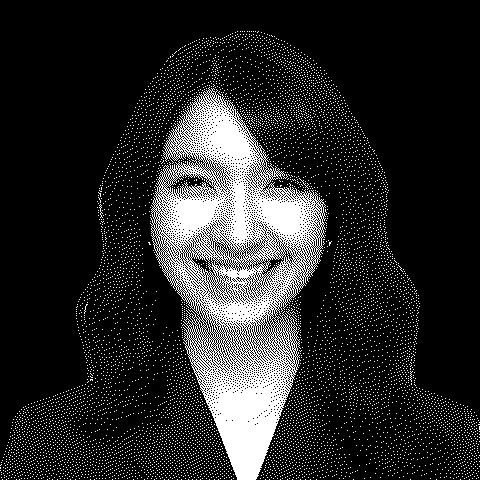
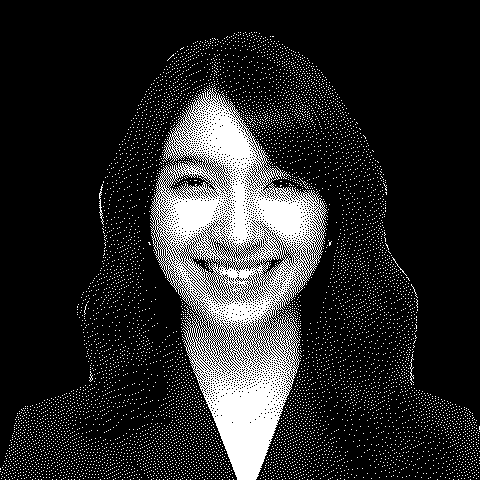
Same grain in both themes for a smooth photo crossfade
- Build the dark-mode headshot from the light-mode dither pixels: only the detected backdrop is blacked out, every dot on the face, hair and blazer is identical (verified: only white->black backdrop pixels differ)
- Theme toggle now only changes colour, the texture no longer jumps
- Version the headshot image URLs so cached old images are not reused; bump asset version to 202611066
- Update knockout.mjs and the recipe in the dvphnc-design skill

diff --git a/index.html b/index.html
@@ -19,7 +19,7 @@
   <link rel="preconnect" href="https://fonts.gstatic.com" crossorigin/>
   <link rel="preconnect" href="https://cdn.jsdelivr.net" crossorigin/>
   <link rel="stylesheet" href="https://fonts.googleapis.com/css2?family=Geist:wght@400;500;600;700&family=Geist+Mono:wght@400;500;600&display=swap"/>
-  <link rel="stylesheet" href="assets/css/site.css?v=202611065"/>
+  <link rel="stylesheet" href="assets/css/site.css?v=202611066"/>
 </head>
 <body>
 
@@ -112,8 +112,8 @@
           <div class="portrait enter" style="--d:50ms">
             <!-- Blue duotone: one copy per theme, cross-faded by .dark (filters defined below) -->
             <!-- fine-grain dithered portrait: 1-bit dither made at 2x the display size, scaled smoothly so the grain stays fine -->
-            <picture><source media="(min-width: 720px)" srcset="assets/img/headshot-grain-480.png"/><img class="duo duo-light" src="assets/img/headshot-grain-272.png" alt="Portrait of Joana Daphne Sy" width="240" height="240" fetchpriority="high"/></picture>
-            <picture><source media="(min-width: 720px)" srcset="assets/img/headshot-grain-dark-480.png"/><img class="duo duo-dark" src="assets/img/headshot-grain-dark-272.png" alt="" aria-hidden="true" width="240" height="240"/></picture>
+            <picture><source media="(min-width: 720px)" srcset="assets/img/headshot-grain-480.png?v=202611066"/><img class="duo duo-light" src="assets/img/headshot-grain-272.png?v=202611066" alt="Portrait of Joana Daphne Sy" width="240" height="240" fetchpriority="high"/></picture>
+            <picture><source media="(min-width: 720px)" srcset="assets/img/headshot-grain-dark-480.png?v=202611066"/><img class="duo duo-dark" src="assets/img/headshot-grain-dark-272.png?v=202611066" alt="" aria-hidden="true" width="240" height="240"/></picture>
             <svg width="0" height="0" style="position:absolute" aria-hidden="true" focusable="false">
               <!-- light theme: shadows #002a78 → highlights #e8f1ff -->
               <filter id="duo-light" color-interpolation-filters="sRGB">
@@ -427,10 +427,10 @@
     </div>
   </div>
 
-  <script src="assets/js/boot.js?v=202611065"></script>
-  <script src="assets/js/theme.js?v=202611065"></script>
-  <script src="assets/js/main.js?v=202611065"></script>
+  <script src="assets/js/boot.js?v=202611066"></script>
+  <script src="assets/js/theme.js?v=202611066"></script>
+  <script src="assets/js/main.js?v=202611066"></script>
   <script src="https://cdnjs.cloudflare.com/ajax/libs/three.js/r128/three.min.js"></script>
-  <script src="assets/js/globe.js?v=202611065"></script>
+  <script src="assets/js/globe.js?v=202611066"></script>
 </body>
 </html>

diff --git a/notes/CWE-78 - OS Command Injection.html b/notes/CWE-78 - OS Command Injection.html
@@ -13,8 +13,8 @@
   <link rel="preconnect" href="https://fonts.googleapis.com"/>
   <link rel="preconnect" href="https://fonts.gstatic.com" crossorigin/>
   <link rel="stylesheet" href="https://fonts.googleapis.com/css2?family=Geist:wght@400;500;600;700&family=Geist+Mono:wght@400;500;600&family=Source+Serif+4:ital,opsz,wght@0,8..60,400;0,8..60,600;1,8..60,400&display=swap"/>
-  <link rel="stylesheet" href="../assets/css/site.css?v=202611065"/>
-  <link rel="stylesheet" href="../assets/css/note.css?v=202611065"/>
+  <link rel="stylesheet" href="../assets/css/site.css?v=202611066"/>
+  <link rel="stylesheet" href="../assets/css/note.css?v=202611066"/>
 </head>
 <body>
 
@@ -140,7 +140,7 @@ report.txt; rm -rf / --no-preserve-root</code></pre>
     </article>
   </main>
 
-  <script src="../assets/js/theme.js?v=202611065"></script>
-  <script src="../assets/js/note.js?v=202611065"></script>
+  <script src="../assets/js/theme.js?v=202611066"></script>
+  <script src="../assets/js/note.js?v=202611066"></script>
 </body>
 </html>

diff --git a/notes/CWE-89 - SQL Injection.html b/notes/CWE-89 - SQL Injection.html
@@ -13,8 +13,8 @@
   <link rel="preconnect" href="https://fonts.googleapis.com"/>
   <link rel="preconnect" href="https://fonts.gstatic.com" crossorigin/>
   <link rel="stylesheet" href="https://fonts.googleapis.com/css2?family=Geist:wght@400;500;600;700&family=Geist+Mono:wght@400;500;600&family=Source+Serif+4:ital,opsz,wght@0,8..60,400;0,8..60,600;1,8..60,400&display=swap"/>
-  <link rel="stylesheet" href="../assets/css/site.css?v=202611065"/>
-  <link rel="stylesheet" href="../assets/css/note.css?v=202611065"/>
+  <link rel="stylesheet" href="../assets/css/site.css?v=202611066"/>
+  <link rel="stylesheet" href="../assets/css/note.css?v=202611066"/>
 </head>
 <body>
 
@@ -159,7 +159,7 @@ cursor.execute(query)</code></pre>
     </article>
   </main>
 
-  <script src="../assets/js/theme.js?v=202611065"></script>
-  <script src="../assets/js/note.js?v=202611065"></script>
+  <script src="../assets/js/theme.js?v=202611066"></script>
+  <script src="../assets/js/note.js?v=202611066"></script>
 </body>
 </html>

diff --git a/notes/Burp Suite Introduction.html b/notes/Burp Suite Introduction.html
@@ -13,8 +13,8 @@
   <link rel="preconnect" href="https://fonts.googleapis.com"/>
   <link rel="preconnect" href="https://fonts.gstatic.com" crossorigin/>
   <link rel="stylesheet" href="https://fonts.googleapis.com/css2?family=Geist:wght@400;500;600;700&family=Geist+Mono:wght@400;500;600&family=Source+Serif+4:ital,opsz,wght@0,8..60,400;0,8..60,600;1,8..60,400&display=swap"/>
-  <link rel="stylesheet" href="../assets/css/site.css?v=202611065"/>
-  <link rel="stylesheet" href="../assets/css/note.css?v=202611065"/>
+  <link rel="stylesheet" href="../assets/css/site.css?v=202611066"/>
+  <link rel="stylesheet" href="../assets/css/note.css?v=202611066"/>
 </head>
 <body>
 
@@ -147,7 +147,7 @@
     </article>
   </main>
 
-  <script src="../assets/js/theme.js?v=202611065"></script>
-  <script src="../assets/js/note.js?v=202611065"></script>
+  <script src="../assets/js/theme.js?v=202611066"></script>
+  <script src="../assets/js/note.js?v=202611066"></script>
 </body>
 </html>

diff --git a/notes/CWE-35 - Path Traversal.html b/notes/CWE-35 - Path Traversal.html
@@ -13,8 +13,8 @@
   <link rel="preconnect" href="https://fonts.googleapis.com"/>
   <link rel="preconnect" href="https://fonts.gstatic.com" crossorigin/>
   <link rel="stylesheet" href="https://fonts.googleapis.com/css2?family=Geist:wght@400;500;600;700&family=Geist+Mono:wght@400;500;600&family=Source+Serif+4:ital,opsz,wght@0,8..60,400;0,8..60,600;1,8..60,400&display=swap"/>
-  <link rel="stylesheet" href="../assets/css/site.css?v=202611065"/>
-  <link rel="stylesheet" href="../assets/css/note.css?v=202611065"/>
+  <link rel="stylesheet" href="../assets/css/site.css?v=202611066"/>
+  <link rel="stylesheet" href="../assets/css/note.css?v=202611066"/>
 </head>
 <body>
 
@@ -172,7 +172,7 @@
     </article>
   </main>
 
-  <script src="../assets/js/theme.js?v=202611065"></script>
-  <script src="../assets/js/note.js?v=202611065"></script>
+  <script src="../assets/js/theme.js?v=202611066"></script>
+  <script src="../assets/js/note.js?v=202611066"></script>
 </body>
 </html>

diff --git a/notes/CWE-79 - Cross-Site Scripting (XSS).html b/notes/CWE-79 - Cross-Site Scripting (XSS).html
@@ -13,8 +13,8 @@
   <link rel="preconnect" href="https://fonts.googleapis.com"/>
   <link rel="preconnect" href="https://fonts.gstatic.com" crossorigin/>
   <link rel="stylesheet" href="https://fonts.googleapis.com/css2?family=Geist:wght@400;500;600;700&family=Geist+Mono:wght@400;500;600&family=Source+Serif+4:ital,opsz,wght@0,8..60,400;0,8..60,600;1,8..60,400&display=swap"/>
-  <link rel="stylesheet" href="../assets/css/site.css?v=202611065"/>
-  <link rel="stylesheet" href="../assets/css/note.css?v=202611065"/>
+  <link rel="stylesheet" href="../assets/css/site.css?v=202611066"/>
+  <link rel="stylesheet" href="../assets/css/note.css?v=202611066"/>
 </head>
 <body>
 
@@ -151,7 +151,7 @@
     </article>
   </main>
 
-  <script src="../assets/js/theme.js?v=202611065"></script>
-  <script src="../assets/js/note.js?v=202611065"></script>
+  <script src="../assets/js/theme.js?v=202611066"></script>
+  <script src="../assets/js/note.js?v=202611066"></script>
 </body>
 </html>

diff --git a/notes/Career Opportunities in IT Security.html b/notes/Career Opportunities in IT Security.html
@@ -13,8 +13,8 @@
   <link rel="preconnect" href="https://fonts.googleapis.com"/>
   <link rel="preconnect" href="https://fonts.gstatic.com" crossorigin/>
   <link rel="stylesheet" href="https://fonts.googleapis.com/css2?family=Geist:wght@400;500;600;700&family=Geist+Mono:wght@400;500;600&family=Source+Serif+4:ital,opsz,wght@0,8..60,400;0,8..60,600;1,8..60,400&display=swap"/>
-  <link rel="stylesheet" href="../assets/css/site.css?v=202611065"/>
-  <link rel="stylesheet" href="../assets/css/note.css?v=202611065"/>
+  <link rel="stylesheet" href="../assets/css/site.css?v=202611066"/>
+  <link rel="stylesheet" href="../assets/css/note.css?v=202611066"/>
 </head>
 <body>
 
@@ -170,7 +170,7 @@
     </article>
   </main>
 
-  <script src="../assets/js/theme.js?v=202611065"></script>
-  <script src="../assets/js/note.js?v=202611065"></script>
+  <script src="../assets/js/theme.js?v=202611066"></script>
+  <script src="../assets/js/note.js?v=202611066"></script>
 </body>
 </html>

diff --git a/notes/Cloud and Virtualization Fundamentals.html b/notes/Cloud and Virtualization Fundamentals.html
@@ -13,8 +13,8 @@
   <link rel="preconnect" href="https://fonts.googleapis.com"/>
   <link rel="preconnect" href="https://fonts.gstatic.com" crossorigin/>
   <link rel="stylesheet" href="https://fonts.googleapis.com/css2?family=Geist:wght@400;500;600;700&family=Geist+Mono:wght@400;500;600&family=Source+Serif+4:ital,opsz,wght@0,8..60,400;0,8..60,600;1,8..60,400&display=swap"/>
-  <link rel="stylesheet" href="../assets/css/site.css?v=202611065"/>
-  <link rel="stylesheet" href="../assets/css/note.css?v=202611065"/>
+  <link rel="stylesheet" href="../assets/css/site.css?v=202611066"/>
+  <link rel="stylesheet" href="../assets/css/note.css?v=202611066"/>
 </head>
 <body>
 
@@ -135,7 +135,7 @@
     </article>
   </main>
 
-  <script src="../assets/js/theme.js?v=202611065"></script>
-  <script src="../assets/js/note.js?v=202611065"></script>
+  <script src="../assets/js/theme.js?v=202611066"></script>
+  <script src="../assets/js/note.js?v=202611066"></script>
 </body>
 </html>

diff --git a/notes/Email Security Fundamentals.html b/notes/Email Security Fundamentals.html
@@ -13,8 +13,8 @@
   <link rel="preconnect" href="https://fonts.googleapis.com"/>
   <link rel="preconnect" href="https://fonts.gstatic.com" crossorigin/>
   <link rel="stylesheet" href="https://fonts.googleapis.com/css2?family=Geist:wght@400;500;600;700&family=Geist+Mono:wght@400;500;600&family=Source+Serif+4:ital,opsz,wght@0,8..60,400;0,8..60,600;1,8..60,400&display=swap"/>
-  <link rel="stylesheet" href="../assets/css/site.css?v=202611065"/>
-  <link rel="stylesheet" href="../assets/css/note.css?v=202611065"/>
+  <link rel="stylesheet" href="../assets/css/site.css?v=202611066"/>
+  <link rel="stylesheet" href="../assets/css/note.css?v=202611066"/>
 </head>
 <body>
 
@@ -137,7 +137,7 @@
     </article>
   </main>
 
-  <script src="../assets/js/theme.js?v=202611065"></script>
-  <script src="../assets/js/note.js?v=202611065"></script>
+  <script src="../assets/js/theme.js?v=202611066"></script>
+  <script src="../assets/js/note.js?v=202611066"></script>
 </body>
 </html>

diff --git a/notes/Encryption Fundamentals.html b/notes/Encryption Fundamentals.html
@@ -13,8 +13,8 @@
   <link rel="preconnect" href="https://fonts.googleapis.com"/>
   <link rel="preconnect" href="https://fonts.gstatic.com" crossorigin/>
   <link rel="stylesheet" href="https://fonts.googleapis.com/css2?family=Geist:wght@400;500;600;700&family=Geist+Mono:wght@400;500;600&family=Source+Serif+4:ital,opsz,wght@0,8..60,400;0,8..60,600;1,8..60,400&display=swap"/>
-  <link rel="stylesheet" href="../assets/css/site.css?v=202611065"/>
-  <link rel="stylesheet" href="../assets/css/note.css?v=202611065"/>
+  <link rel="stylesheet" href="../assets/css/site.css?v=202611066"/>
+  <link rel="stylesheet" href="../assets/css/note.css?v=202611066"/>
 </head>
 <body>
 
@@ -147,7 +147,7 @@
     </article>
   </main>
 
-  <script src="../assets/js/theme.js?v=202611065"></script>
-  <script src="../assets/js/note.js?v=202611065"></script>
+  <script src="../assets/js/theme.js?v=202611066"></script>
+  <script src="../assets/js/note.js?v=202611066"></script>
 </body>
 </html>

diff --git a/notes/Importance of Cyber Security.html b/notes/Importance of Cyber Security.html
@@ -13,8 +13,8 @@
   <link rel="preconnect" href="https://fonts.googleapis.com"/>
   <link rel="preconnect" href="https://fonts.gstatic.com" crossorigin/>
   <link rel="stylesheet" href="https://fonts.googleapis.com/css2?family=Geist:wght@400;500;600;700&family=Geist+Mono:wght@400;500;600&family=Source+Serif+4:ital,opsz,wght@0,8..60,400;0,8..60,600;1,8..60,400&display=swap"/>
-  <link rel="stylesheet" href="../assets/css/site.css?v=202611065"/>
-  <link rel="stylesheet" href="../assets/css/note.css?v=202611065"/>
+  <link rel="stylesheet" href="../assets/css/site.css?v=202611066"/>
+  <link rel="stylesheet" href="../assets/css/note.css?v=202611066"/>
 </head>
 <body>
 
@@ -138,7 +138,7 @@
     </article>
   </main>
 
-  <script src="../assets/js/theme.js?v=202611065"></script>
-  <script src="../assets/js/note.js?v=202611065"></script>
+  <script src="../assets/js/theme.js?v=202611066"></script>
+  <script src="../assets/js/note.js?v=202611066"></script>
 </body>
 </html>

diff --git a/notes/Introduction to Web Application Security.html b/notes/Introduction to Web Application Security.html
@@ -13,8 +13,8 @@
   <link rel="preconnect" href="https://fonts.googleapis.com"/>
   <link rel="preconnect" href="https://fonts.gstatic.com" crossorigin/>
   <link rel="stylesheet" href="https://fonts.googleapis.com/css2?family=Geist:wght@400;500;600;700&family=Geist+Mono:wght@400;500;600&family=Source+Serif+4:ital,opsz,wght@0,8..60,400;0,8..60,600;1,8..60,400&display=swap"/>
-  <link rel="stylesheet" href="../assets/css/site.css?v=202611065"/>
-  <link rel="stylesheet" href="../assets/css/note.css?v=202611065"/>
+  <link rel="stylesheet" href="../assets/css/site.css?v=202611066"/>
+  <link rel="stylesheet" href="../assets/css/note.css?v=202611066"/>
 </head>
 <body>
 
@@ -164,7 +164,7 @@
     </article>
   </main>
 
-  <script src="../assets/js/theme.js?v=202611065"></script>
-  <script src="../assets/js/note.js?v=202611065"></script>
+  <script src="../assets/js/theme.js?v=202611066"></script>
+  <script src="../assets/js/note.js?v=202611066"></script>
 </body>
 </html>
